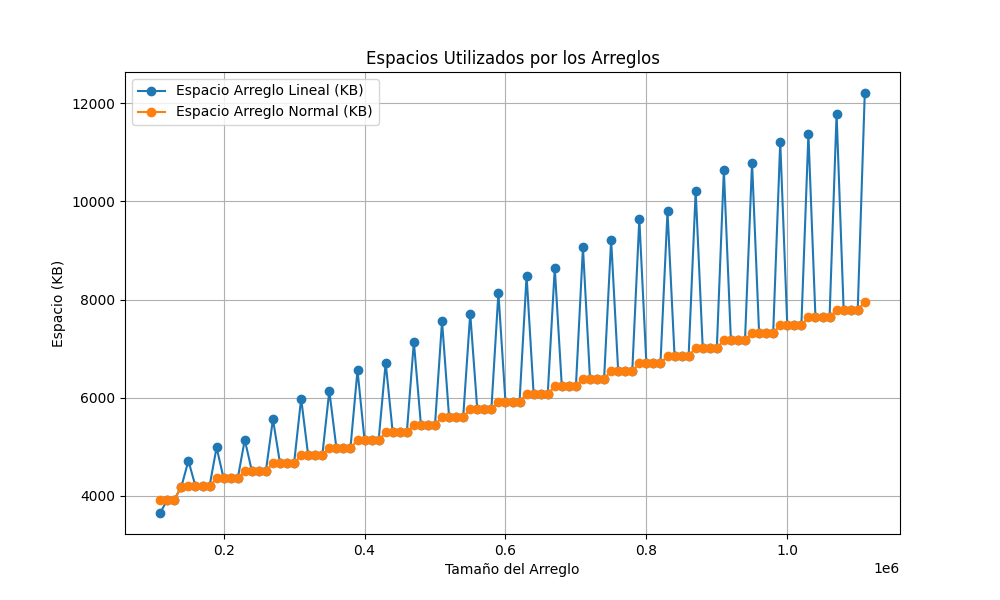
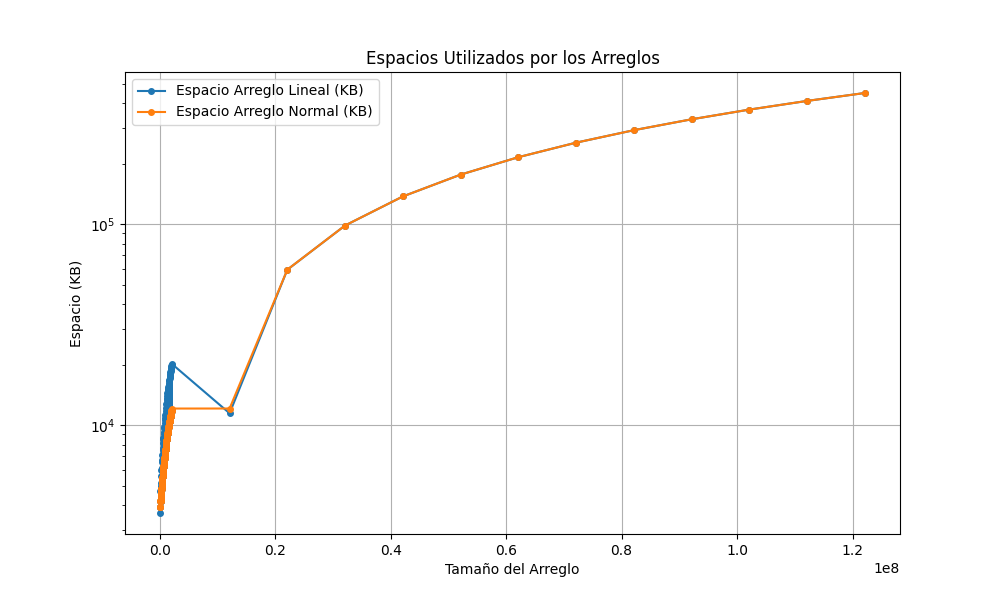
mas experimetacion

diff --git a/graficosExplicitArrray.py b/graficosExplicitArrray.py
@@ -31,6 +31,7 @@ plt.plot(sizes, times_normal, label='Tiempo Arreglo Normal', marker='o')
 plt.title('Tiempos de Búsqueda Binaria')
 plt.xlabel('Tamaño del Arreglo')
 plt.ylabel('Tiempo (segundos)')
+plt.yscale('log') 
 plt.legend()
 plt.grid(True)
 plt.savefig('GraficosAExplicitos_tiempos_busqueda_Explicit.png')  # Guardar como imagen
@@ -38,11 +39,12 @@ plt.close()
 
 # Crear la gráfica para espacios utilizados en kilobytes
 plt.figure(figsize=(10, 6))
-plt.plot(sizes, space_lineal, label='Espacio Arreglo Lineal (KB)', marker='o')
-plt.plot(sizes, space_normal, label='Espacio Arreglo Normal (KB)', marker='o')
+plt.plot(sizes, space_lineal, label='Espacio Arreglo Lineal (KB)', marker='o', markersize=4, linestyle='-')
+plt.plot(sizes, space_normal, label='Espacio Arreglo Normal (KB)', marker='o', markersize=4, linestyle='-')
 plt.title('Espacios Utilizados por los Arreglos')
 plt.xlabel('Tamaño del Arreglo')
 plt.ylabel('Espacio (KB)')
+plt.yscale('log') 
 plt.legend()
 plt.grid(True)
 plt.savefig('GraficosAExplicitos_espacios_utilizados.png')  # Guardar como imagen

diff --git a/explicitArray.cpp b/explicitArray.cpp
@@ -82,7 +82,7 @@ int main(int argc, char *argv[]) {
         int memoryArrNormal = stoi(getMemoryUsage(pid));
         arrayNormal.clear();
         arrayNormal.shrink_to_fit();
-        size = size + 10000;
+        size = size + 10000000;
         guardarResultados("../resExplicit.csv", size, tarrayLineal, tarrayNormal,memoryArrLineal,memoryArrNormal );
     
     }
